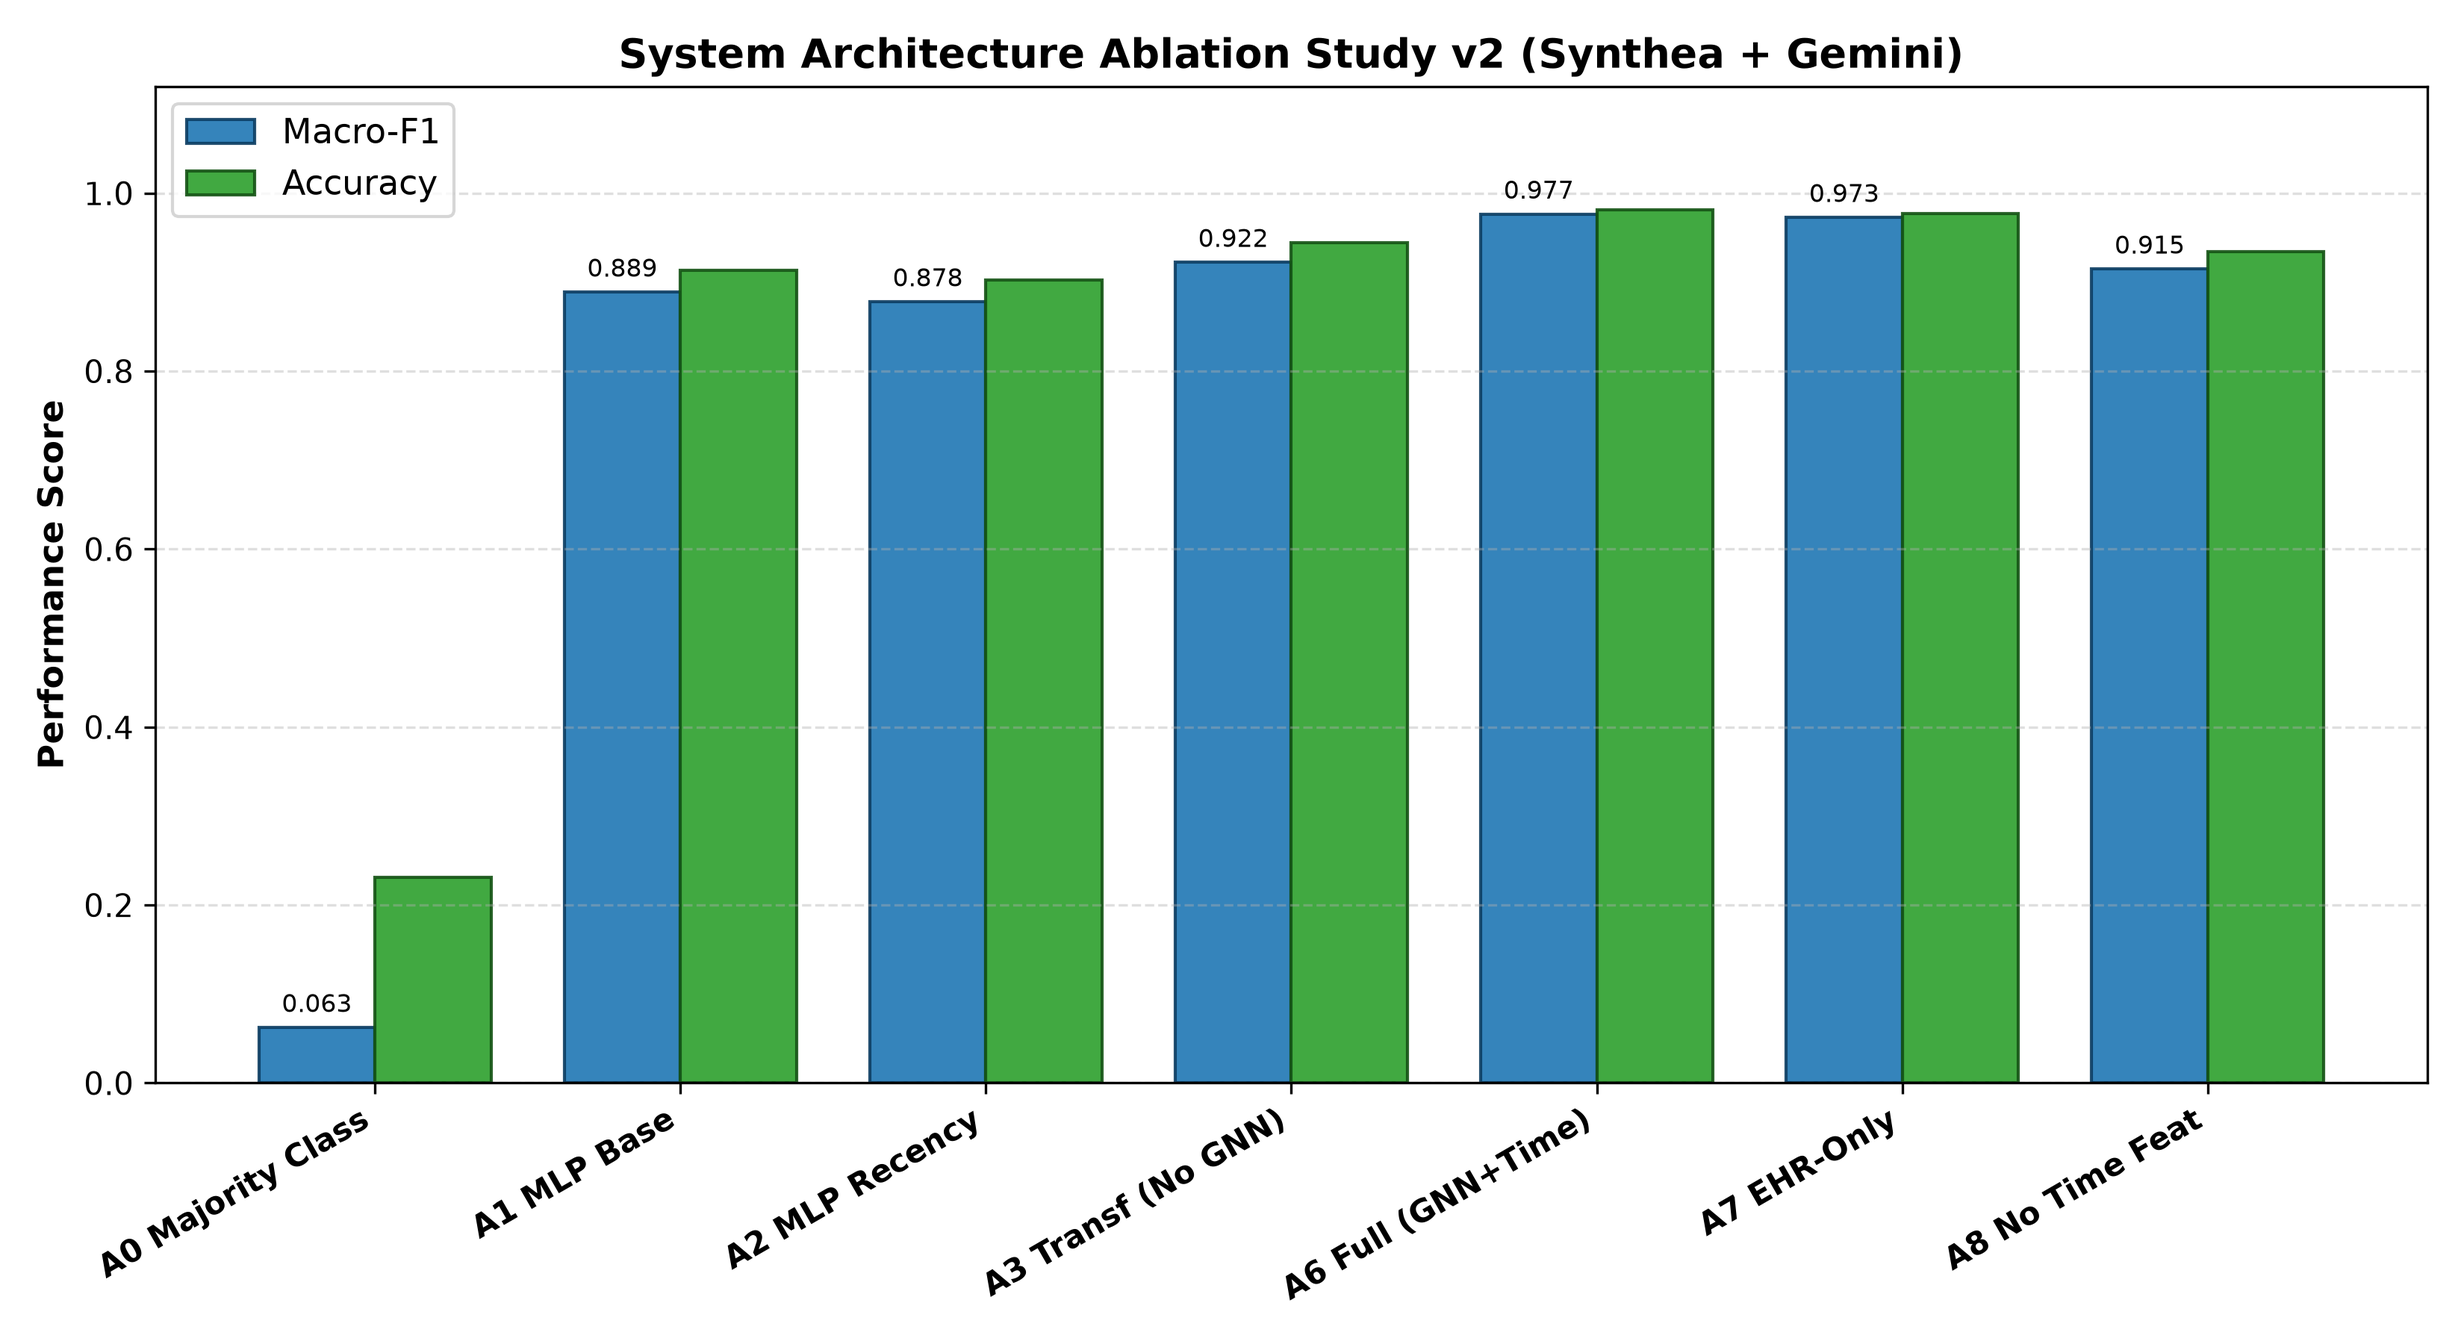
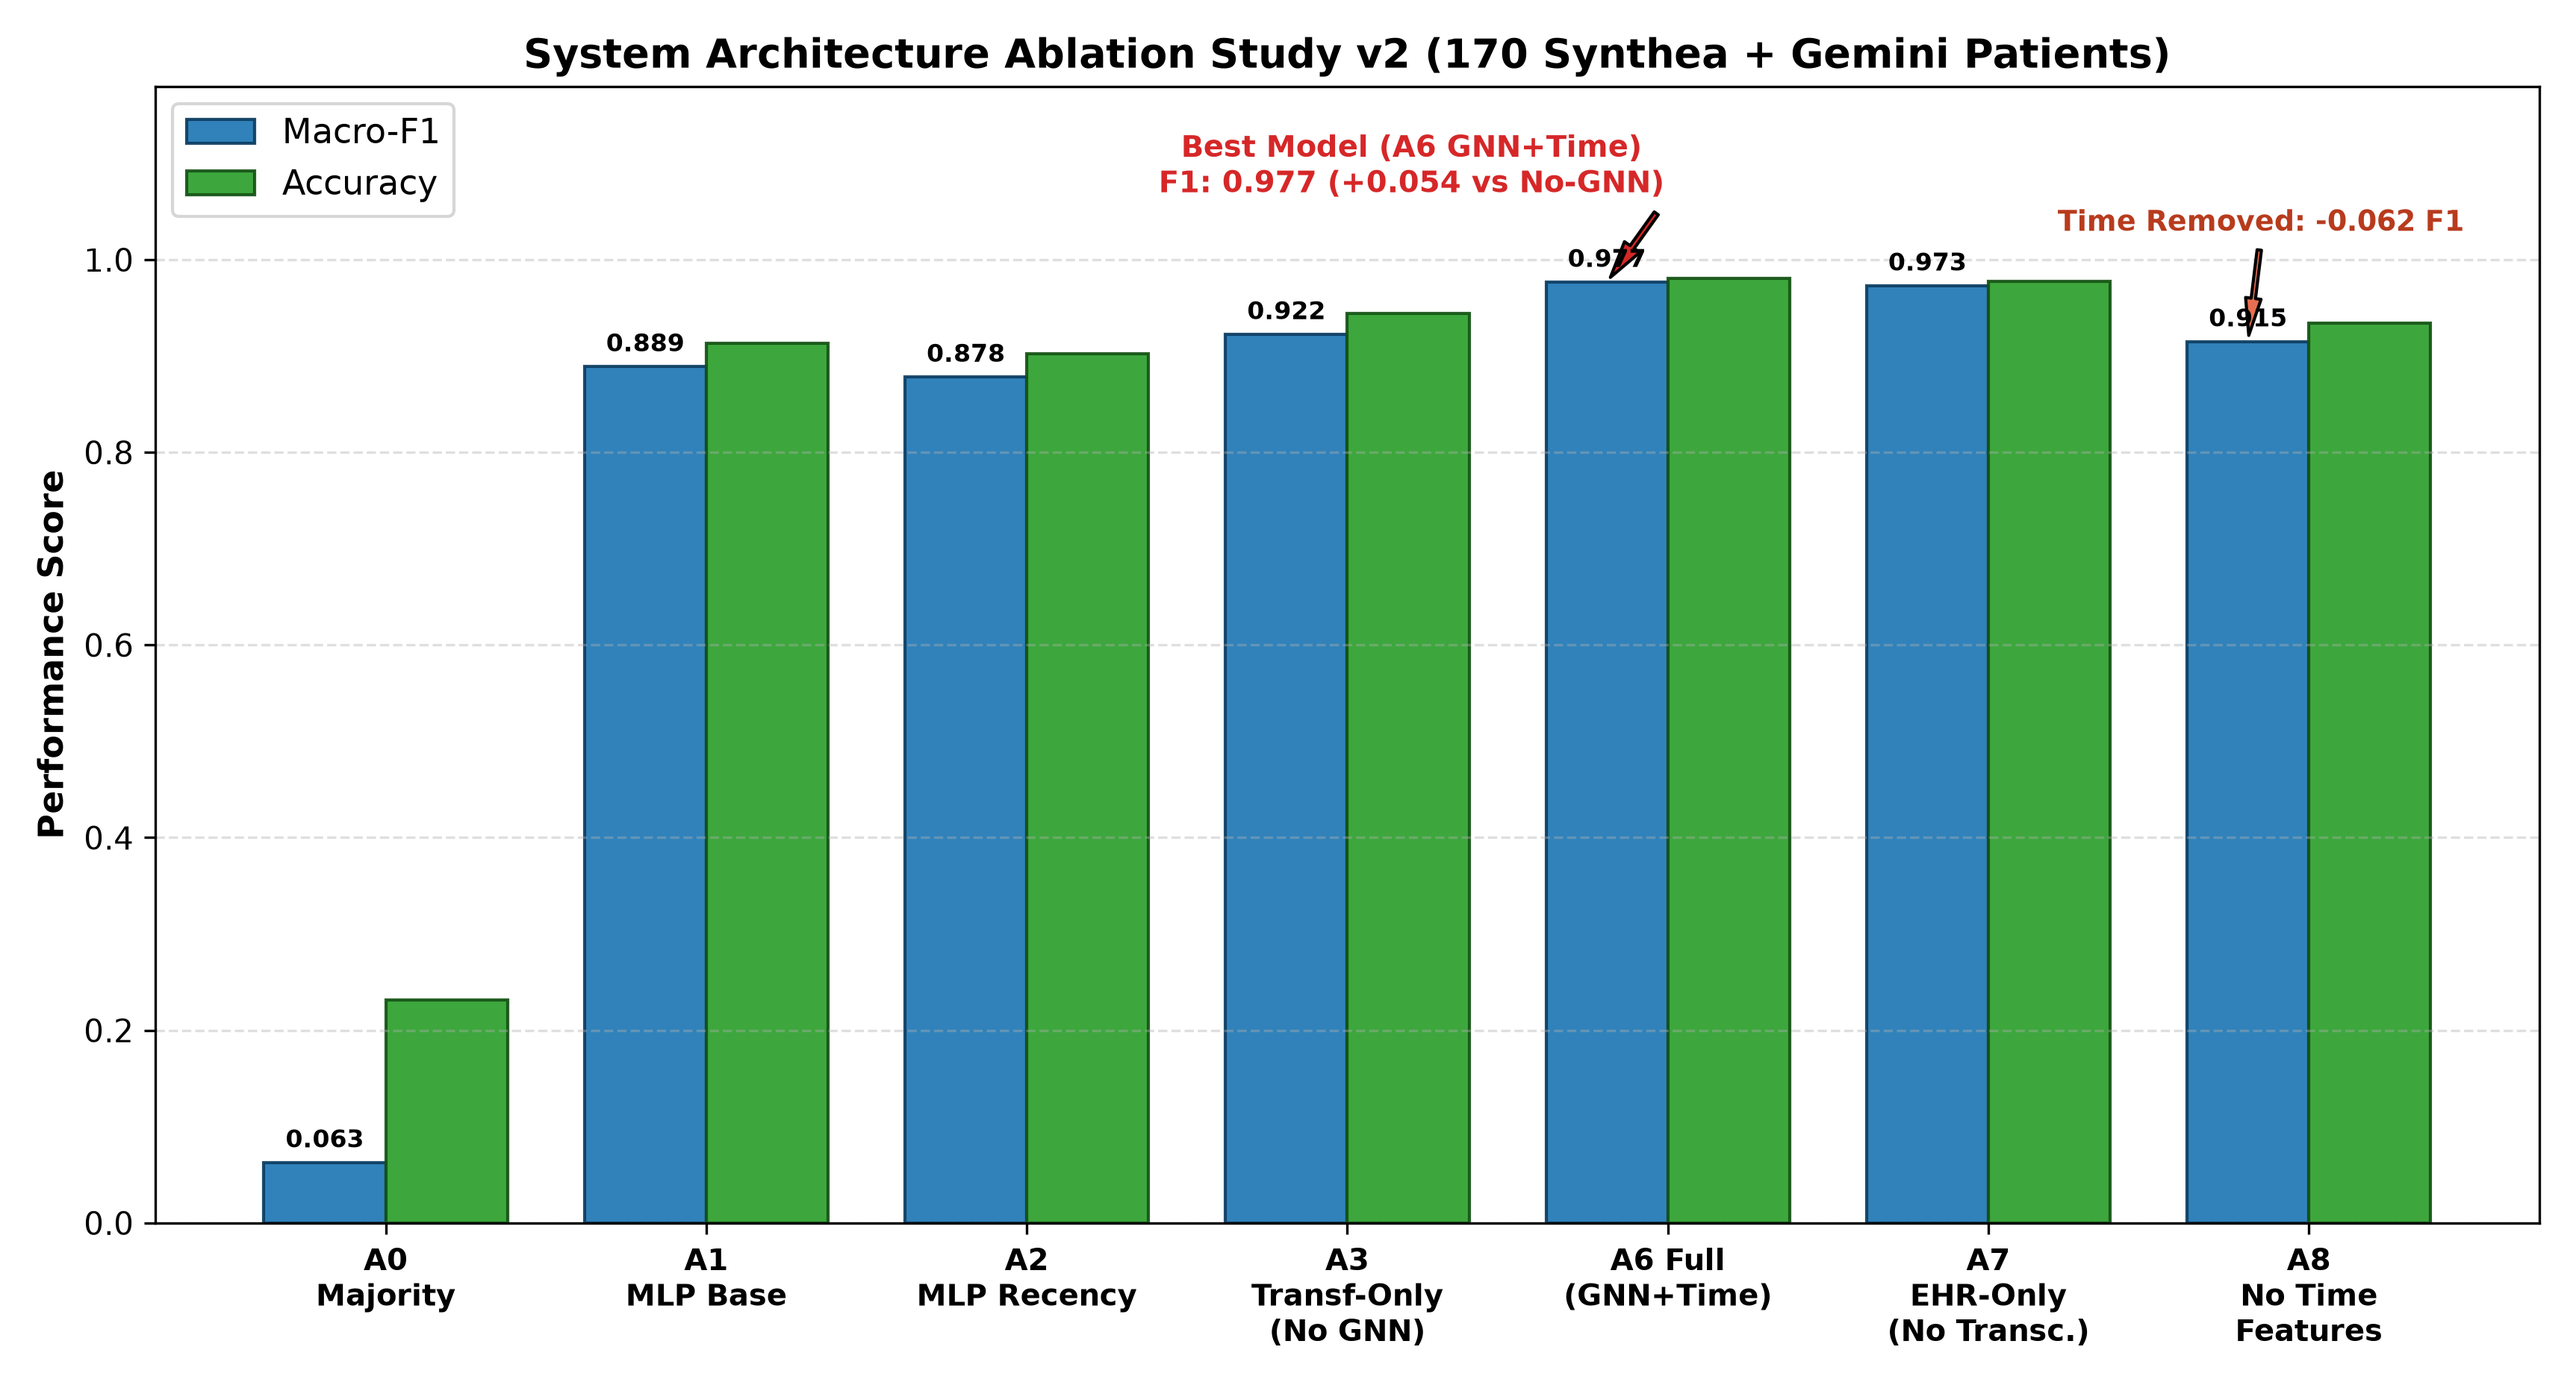
fix(plots): use quantile calibration bins, full ablation labels, and callout arrows on v2 plots

diff --git a/scripts/generate_evaluation_plots_v2.py b/scripts/generate_evaluation_plots_v2.py
@@ -75,29 +75,56 @@ def plot_confusion_matrix(data: dict, output_path: Path):
 
 def plot_ablation_study(data: dict, output_path: Path):
     abls = data["ablations"]
-    configs = [a["config"] for a in abls]
+    short_map = {
+        "A0 Majority Class": "A0\nMajority",
+        "A1 MLP Base": "A1\nMLP Base",
+        "A2 MLP Recency": "A2\nMLP Recency",
+        "A3 Transf (No GNN)": "A3\nTransf-Only\n(No GNN)",
+        "A6 Full (GNN+Time)": "A6 Full\n(GNN+Time)",
+        "A7 EHR-Only": "A7\nEHR-Only\n(No Transc.)",
+        "A8 No Time Feat": "A8\nNo Time\nFeatures",
+    }
+    configs = [short_map.get(a["config"], a["config"]) for a in abls]
     f1_scores = [a["macro_f1"] for a in abls]
     accuracies = [a["accuracy"] for a in abls]
 
     x = np.arange(len(configs))
     width = 0.38
 
-    fig, ax = plt.subplots(figsize=(11, 6), dpi=300)
-    rects1 = ax.bar(x - width / 2, f1_scores, width, label="Macro-F1", color="#1f77b4", edgecolor="#0b3c61", alpha=0.9)
-    ax.bar(x + width / 2, accuracies, width, label="Accuracy", color="#2ca02c", edgecolor="#145214", alpha=0.9)
+    fig, ax = plt.subplots(figsize=(11.5, 6.2), dpi=300)
+    rects1 = ax.bar(x - width / 2, f1_scores, width, label="Macro-F1", color="#1f77b4", edgecolor="#0b3c61", alpha=0.92)
+    rects2 = ax.bar(x + width / 2, accuracies, width, label="Accuracy", color="#2ca02c", edgecolor="#145214", alpha=0.92)
 
     ax.set_ylabel("Performance Score")
-    ax.set_title("System Architecture Ablation Study v2 (Synthea + Gemini)")
+    ax.set_title("System Architecture Ablation Study v2 (170 Synthea + Gemini Patients)")
     ax.set_xticks(x)
-    ax.set_xticklabels(configs, rotation=30, ha="right", weight="semibold")
-    ax.set_ylim(0, 1.12)
+    ax.set_xticklabels(configs, weight="semibold", fontsize=9.5)
+    ax.set_ylim(0, 1.18)
     ax.grid(axis="y", linestyle="--", alpha=0.4)
     ax.legend(loc="upper left", frameon=True)
+
+    # Highlight A6 Full (Best) & A8 No-Time drop
+    best_idx = 4
+    ax.annotate(
+        f"Best Model (A6 GNN+Time)\nF1: {f1_scores[best_idx]:.3f} (+{f1_scores[best_idx]-f1_scores[3]:.3f} vs No-GNN)",
+        xy=(best_idx - width / 2, f1_scores[best_idx]),
+        xytext=(best_idx - 0.8, 1.07),
+        arrowprops=dict(facecolor="#d62728", shrink=0.06, width=1.6, headwidth=6),
+        ha="center", fontweight="bold", color="#d62728", fontsize=9.5,
+    )
+    no_time_idx = 6
+    ax.annotate(
+        f"Time Removed: -{f1_scores[best_idx]-f1_scores[no_time_idx]:.3f} F1",
+        xy=(no_time_idx - width / 2, f1_scores[no_time_idx]),
+        xytext=(no_time_idx - 0.15, 1.03),
+        arrowprops=dict(facecolor="#e76f51", shrink=0.06, width=1.4, headwidth=5),
+        ha="center", fontweight="bold", color="#b83b1d", fontsize=9,
+    )
 
     for r in rects1:
         h = r.get_height()
         ax.annotate(f"{h:.3f}", xy=(r.get_x() + r.get_width() / 2, h), xytext=(0, 3),
-                    textcoords="offset points", ha="center", va="bottom", fontsize=8)
+                    textcoords="offset points", ha="center", va="bottom", fontsize=8, fontweight="semibold")
 
     fig.tight_layout()
     fig.savefig(output_path)
@@ -114,7 +141,7 @@ def plot_date_shuffle_sensitivity(data: dict, output_path: Path):
     x = np.arange(len(labels))
     width = 0.35
 
-    fig, ax = plt.subplots(figsize=(7, 5.5), dpi=300)
+    fig, ax = plt.subplots(figsize=(7.5, 5.8), dpi=300)
     r1 = ax.bar(x - width / 2, original_f1, width, label="Original Encounter Dates", color="#2b5c8f", edgecolor="#142c47")
     r2 = ax.bar(x + width / 2, shuffled_f1, width, label="Shuffled Encounter Dates", color="#e76f51", edgecolor="#94331a")
 
@@ -122,18 +149,19 @@ def plot_date_shuffle_sensitivity(data: dict, output_path: Path):
     ax.set_title("Date-Shuffle Sensitivity Test v2\n(Impact of Shuffling Synthea Encounter Dates)")
     ax.set_xticks(x)
     ax.set_xticklabels(labels, weight="semibold")
-    ax.set_ylim(0, 1.08)
+    ax.set_ylim(0, 1.12)
     ax.grid(axis="y", linestyle="--", alpha=0.4)
     ax.legend(loc="upper right", frameon=True)
 
-    drop_hist = original_f1[0] - shuffled_f1[0]
-    ax.annotate(
-        f"Drop: -{drop_hist:.4f} F1",
-        xy=(0 + width / 2, shuffled_f1[0]),
-        xytext=(0 + 0.32, min(0.95, shuffled_f1[0] + 0.22)),
-        arrowprops=dict(facecolor="#d62728", shrink=0.08, width=1.5, headwidth=6),
-        fontweight="bold", color="#d62728", fontsize=9.5,
-    )
+    for idx_b, name in enumerate(labels):
+        drop = original_f1[idx_b] - shuffled_f1[idx_b]
+        ax.annotate(
+            f"Drop: -{drop:.3f} F1",
+            xy=(idx_b + width / 2, shuffled_f1[idx_b]),
+            xytext=(idx_b + width / 2 + 0.02, shuffled_f1[idx_b] + 0.14),
+            arrowprops=dict(facecolor="#d62728", shrink=0.06, width=1.5, headwidth=6),
+            ha="center", fontweight="bold", color="#d62728", fontsize=9,
+        )
 
     for r in list(r1) + list(r2):
         h = r.get_height()
@@ -151,21 +179,24 @@ def plot_calibration_reliability(data: dict, output_path: Path):
     ub = cal["uncalibrated_bins"]
     cb = cal["calibrated_bins"]
 
-    fig, ax = plt.subplots(figsize=(7, 6), dpi=300)
-    ax.plot([0, 1], [0, 1], "k--", label="Perfect Calibration (Ideal)", alpha=0.7)
+    fig, ax = plt.subplots(figsize=(7.2, 6), dpi=300)
+    ax.plot([0.5, 1.0], [0.5, 1.0], "k--", label="Perfect Calibration (Ideal)", alpha=0.75)
     ax.plot(ub["conf_centers"], ub["empirical_acc"], "o-",
-            label=f"Uncalibrated (ECE = {cal['ece_uncalibrated']:.4f})", color="#e76f51", linewidth=2)
+            label=f"Uncalibrated (ECE = {cal['ece_uncalibrated']:.4f})", color="#e76f51", linewidth=2.2, markersize=7)
     ax.plot(cb["conf_centers"], cb["empirical_acc"], "s-",
             label=f"Temp Scaled T={cal['temperature']:.2f} (ECE = {cal['ece_calibrated']:.4f})",
-            color="#2a9d8f", linewidth=2.2)
+            color="#2a9d8f", linewidth=2.4, markersize=7)
 
-    ax.set_xlabel("Mean Predicted Confidence")
-    ax.set_ylabel("Empirical Accuracy (Fraction of Positives)")
-    ax.set_title("Confidence Calibration Reliability Diagram v2\n(Synthea + Gemini Held-Out Test Set)")
-    ax.set_xlim(0, 1.02)
-    ax.set_ylim(0, 1.02)
+    ax.fill_between(cb["conf_centers"], cb["conf_centers"], cb["empirical_acc"],
+                    color="#2a9d8f", alpha=0.14, label="Calibration Gap (Calibrated)")
+
+    ax.set_xlabel("Mean Predicted Confidence (Quantile Bins)")
+    ax.set_ylabel("Empirical Accuracy (Fraction Correct)")
+    ax.set_title("Confidence Calibration Reliability Diagram v2\n(Quantile-Binned Synthea + Gemini Test Set)")
+    ax.set_xlim(0.55, 1.01)
+    ax.set_ylim(0.55, 1.01)
     ax.grid(True, linestyle="--", alpha=0.4)
-    ax.legend(loc="upper left", frameon=True)
+    ax.legend(loc="upper left", frameon=True, fontsize=9.5)
 
     fig.tight_layout()
     fig.savefig(output_path)
@@ -228,18 +259,24 @@ def plot_evaluation_dashboard(data: dict, output_path: Path):
 
     # Panel B: Ablation Study
     abls = data["ablations"]
-    configs = [a["config"].split()[0] for a in abls]
+    short_labels = ["A0\nMajority", "A1\nMLP", "A2\nMLP+Rec", "A3\nTransf-Only", "A6\nGNN+Time", "A7\nEHR-Only", "A8\nNo-Time"]
     f1_scores = [a["macro_f1"] for a in abls]
-    colors = ["#888888", "#2b5c8f", "#e76f51", "#457b9d", "#2a9d8f", "#888888", "#e76f51"]
-    bars = axs[0, 1].bar(configs, f1_scores, color=colors[:len(configs)], edgecolor="black", alpha=0.85)
+    colors = ["#888888", "#2b5c8f", "#e76f51", "#457b9d", "#2a9d8f", "#6c757d", "#e76f51"]
+    bars = axs[0, 1].bar(short_labels[:len(abls)], f1_scores, color=colors[:len(abls)], edgecolor="black", alpha=0.88)
     axs[0, 1].set_ylabel("Macro-F1 Score")
-    axs[0, 1].set_ylim(0, 1.1)
+    axs[0, 1].set_ylim(0, 1.18)
     axs[0, 1].set_title("(B) Architectural Ablation Study (Macro-F1)")
     axs[0, 1].grid(axis="y", linestyle="--", alpha=0.4)
     for b in bars:
         h = b.get_height()
         axs[0, 1].annotate(f"{h:.3f}", xy=(b.get_x() + b.get_width() / 2, h), xytext=(0, 2),
-                           textcoords="offset points", ha="center", va="bottom", fontsize=8.5)
+                           textcoords="offset points", ha="center", va="bottom", fontsize=8.5, fontweight="semibold")
+    axs[0, 1].annotate(
+        f"Best A6: {f1_scores[4]:.3f}\n(+{f1_scores[4]-f1_scores[3]:.3f} vs No-GNN)",
+        xy=(4, f1_scores[4]), xytext=(2.8, 1.07),
+        arrowprops=dict(facecolor="#d62728", shrink=0.06, width=1.4, headwidth=5),
+        ha="center", fontweight="bold", color="#d62728", fontsize=8.5,
+    )
 
     # Panel C: Date-Shuffle Drop
     ds = data["date_shuffle_sensitivity"]
@@ -248,29 +285,44 @@ def plot_evaluation_dashboard(data: dict, output_path: Path):
     shuff = [ds["shuffled_history_f1"], ds["shuffled_stale_f1"]]
     x = np.arange(len(labels))
     w = 0.35
-    axs[1, 0].bar(x - w / 2, orig, w, label="Original Dates", color="#2b5c8f")
-    axs[1, 0].bar(x + w / 2, shuff, w, label="Shuffled Dates", color="#e76f51")
+    r1c = axs[1, 0].bar(x - w / 2, orig, w, label="Original Dates", color="#2b5c8f")
+    r2c = axs[1, 0].bar(x + w / 2, shuff, w, label="Shuffled Dates", color="#e76f51")
     axs[1, 0].set_ylabel("F1 Score")
-    axs[1, 0].set_ylim(0, 1.05)
+    axs[1, 0].set_ylim(0, 1.12)
     axs[1, 0].set_title("(C) Date-Shuffle Sensitivity Test")
     axs[1, 0].set_xticks(x)
-    axs[1, 0].set_xticklabels(labels)
-    axs[1, 0].legend()
+    axs[1, 0].set_xticklabels(labels, weight="semibold")
+    axs[1, 0].legend(loc="upper right")
     axs[1, 0].grid(axis="y", linestyle="--", alpha=0.4)
+    for idx_b in range(len(labels)):
+        drop = orig[idx_b] - shuff[idx_b]
+        axs[1, 0].annotate(
+            f"-{drop:.3f} F1",
+            xy=(idx_b + w / 2, shuff[idx_b]),
+            xytext=(idx_b + w / 2 + 0.02, shuff[idx_b] + 0.14),
+            arrowprops=dict(facecolor="#d62728", shrink=0.06, width=1.3, headwidth=5),
+            ha="center", fontweight="bold", color="#d62728", fontsize=8.5,
+        )
+    for r in list(r1c) + list(r2c):
+        h = r.get_height()
+        axs[1, 0].annotate(f"{h:.3f}", xy=(r.get_x() + r.get_width() / 2, h), xytext=(0, 2),
+                           textcoords="offset points", ha="center", va="bottom", fontsize=8.5)
 
     # Panel D: Calibration Curve
     cal = data["calibration"]
     ub = cal["uncalibrated_bins"]
     cb = cal["calibrated_bins"]
-    axs[1, 1].plot([0, 1], [0, 1], "k--", label="Ideal Calibration", alpha=0.7)
+    axs[1, 1].plot([0.5, 1.0], [0.5, 1.0], "k--", label="Ideal Calibration", alpha=0.75)
     axs[1, 1].plot(ub["conf_centers"], ub["empirical_acc"], "o-",
-                   label=f"Uncalibrated (ECE = {cal['ece_uncalibrated']:.4f})", color="#e76f51")
+                   label=f"Uncalibrated (ECE = {cal['ece_uncalibrated']:.4f})", color="#e76f51", linewidth=2)
     axs[1, 1].plot(cb["conf_centers"], cb["empirical_acc"], "s-",
-                   label=f"Temp-Scaled (ECE = {cal['ece_calibrated']:.4f})", color="#2a9d8f")
-    axs[1, 1].set_xlabel("Confidence")
+                   label=f"Temp-Scaled T={cal['temperature']:.2f} (ECE = {cal['ece_calibrated']:.4f})", color="#2a9d8f", linewidth=2.2)
+    axs[1, 1].set_xlim(0.55, 1.01)
+    axs[1, 1].set_ylim(0.55, 1.01)
+    axs[1, 1].set_xlabel("Confidence (Quantile Bins)")
     axs[1, 1].set_ylabel("Empirical Accuracy")
     axs[1, 1].set_title("(D) Confidence Calibration Reliability Curve")
-    axs[1, 1].legend()
+    axs[1, 1].legend(loc="upper left")
     axs[1, 1].grid(True, linestyle="--", alpha=0.4)
 
     fig.tight_layout(rect=[0, 0.03, 1, 0.94])

diff --git a/scripts/run_ablations_v2.py b/scripts/run_ablations_v2.py
@@ -100,14 +100,20 @@ def _eval_model_on_dataset(
     }
 
 
-def _reliability_bins(probs: np.ndarray, y_idx: np.ndarray, num_bins: int = 10) -> Dict[str, List[float]]:
+def _reliability_bins(probs: np.ndarray, y_idx: np.ndarray, num_bins: int = 5) -> Dict[str, List[float]]:
+    """Uses quantile-based binning so every bin has ~N/num_bins samples (no 1-sample spikes)."""
     confidences = np.max(probs, axis=1)
     accuracies = (np.argmax(probs, axis=1) == y_idx).astype(float)
-    bins = np.linspace(0.0, 1.0, num_bins + 1)
+    quantiles = np.linspace(0.0, 1.0, num_bins + 1)
+    edges = np.quantile(confidences, quantiles)
+    # Fallback to uniform edges if quantiles collapse near 1.0
+    if len(np.unique(np.round(edges, 4))) < 3:
+        edges = np.array([0.0, 0.75, 0.88, 0.94, 0.98, 1.01])
+
     bin_centers, bin_accs, bin_counts = [], [], []
-    for i in range(num_bins):
-        lo, hi = bins[i], bins[i + 1]
-        mask = (confidences > lo) & (confidences <= hi) if i > 0 else (confidences >= lo) & (confidences <= hi)
+    for i in range(len(edges) - 1):
+        lo, hi = edges[i], edges[i + 1]
+        mask = (confidences >= lo) & (confidences <= hi) if i == len(edges) - 2 else (confidences >= lo) & (confidences < hi)
         cnt = int(np.sum(mask))
         if cnt > 0:
             bin_counts.append(cnt)
